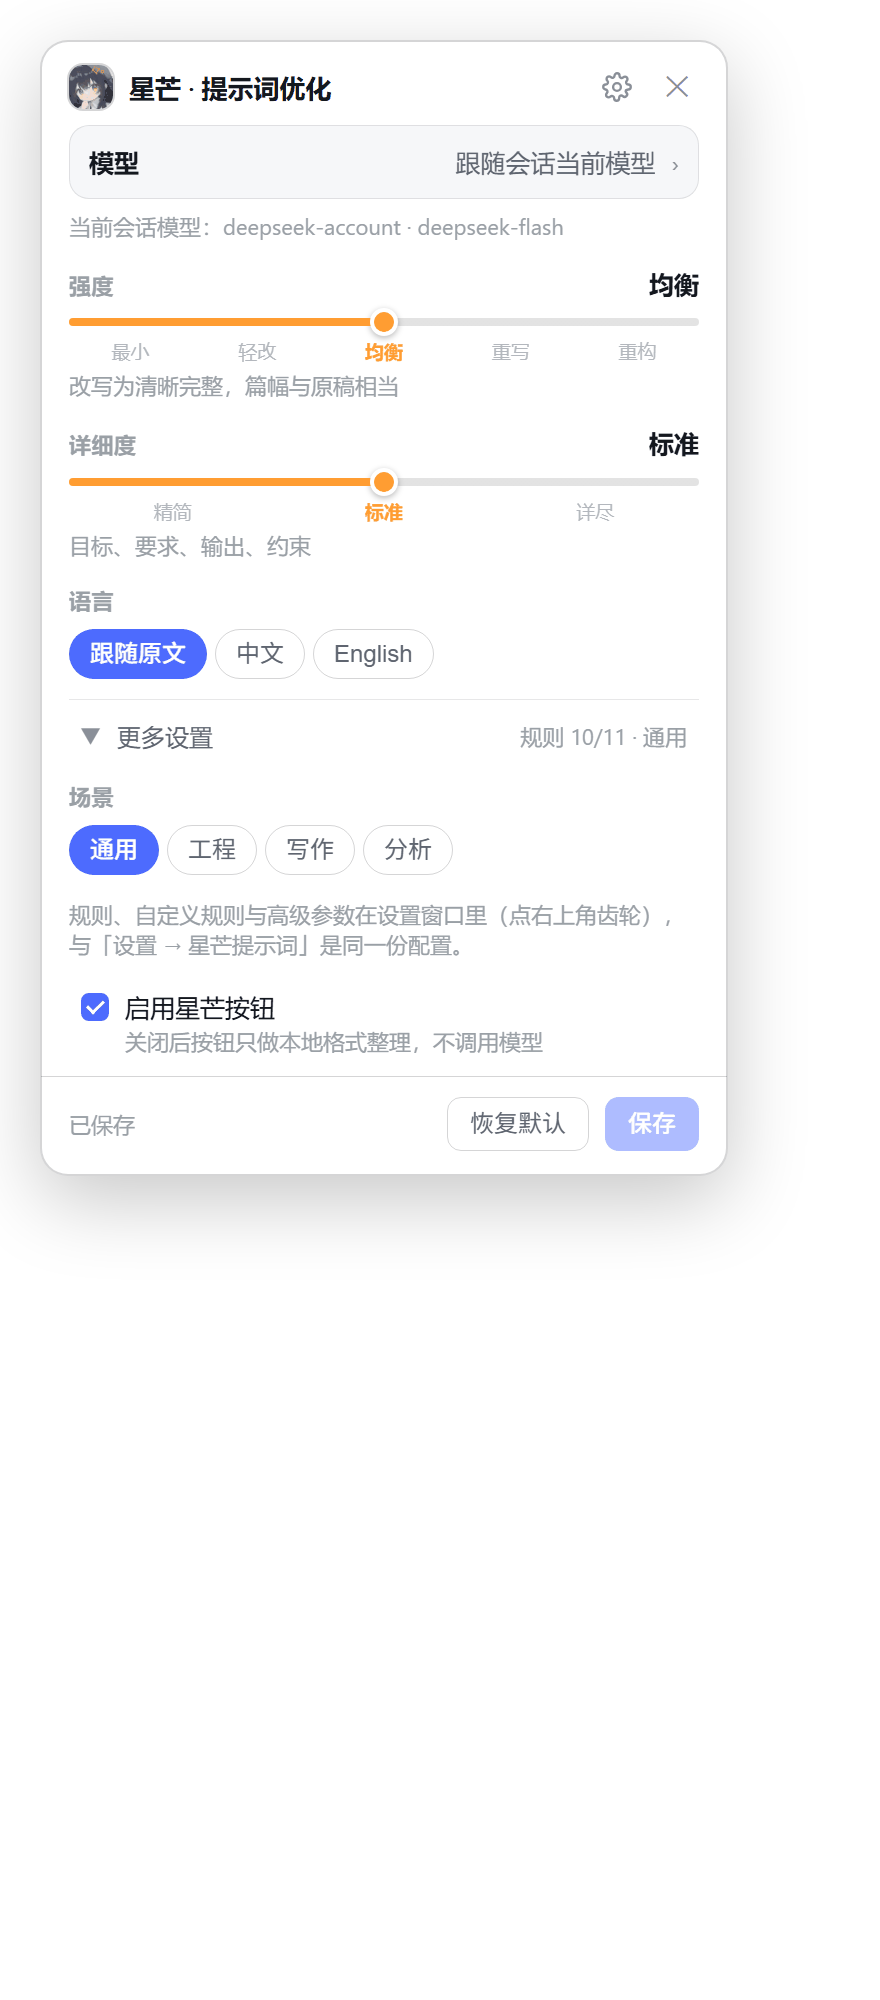
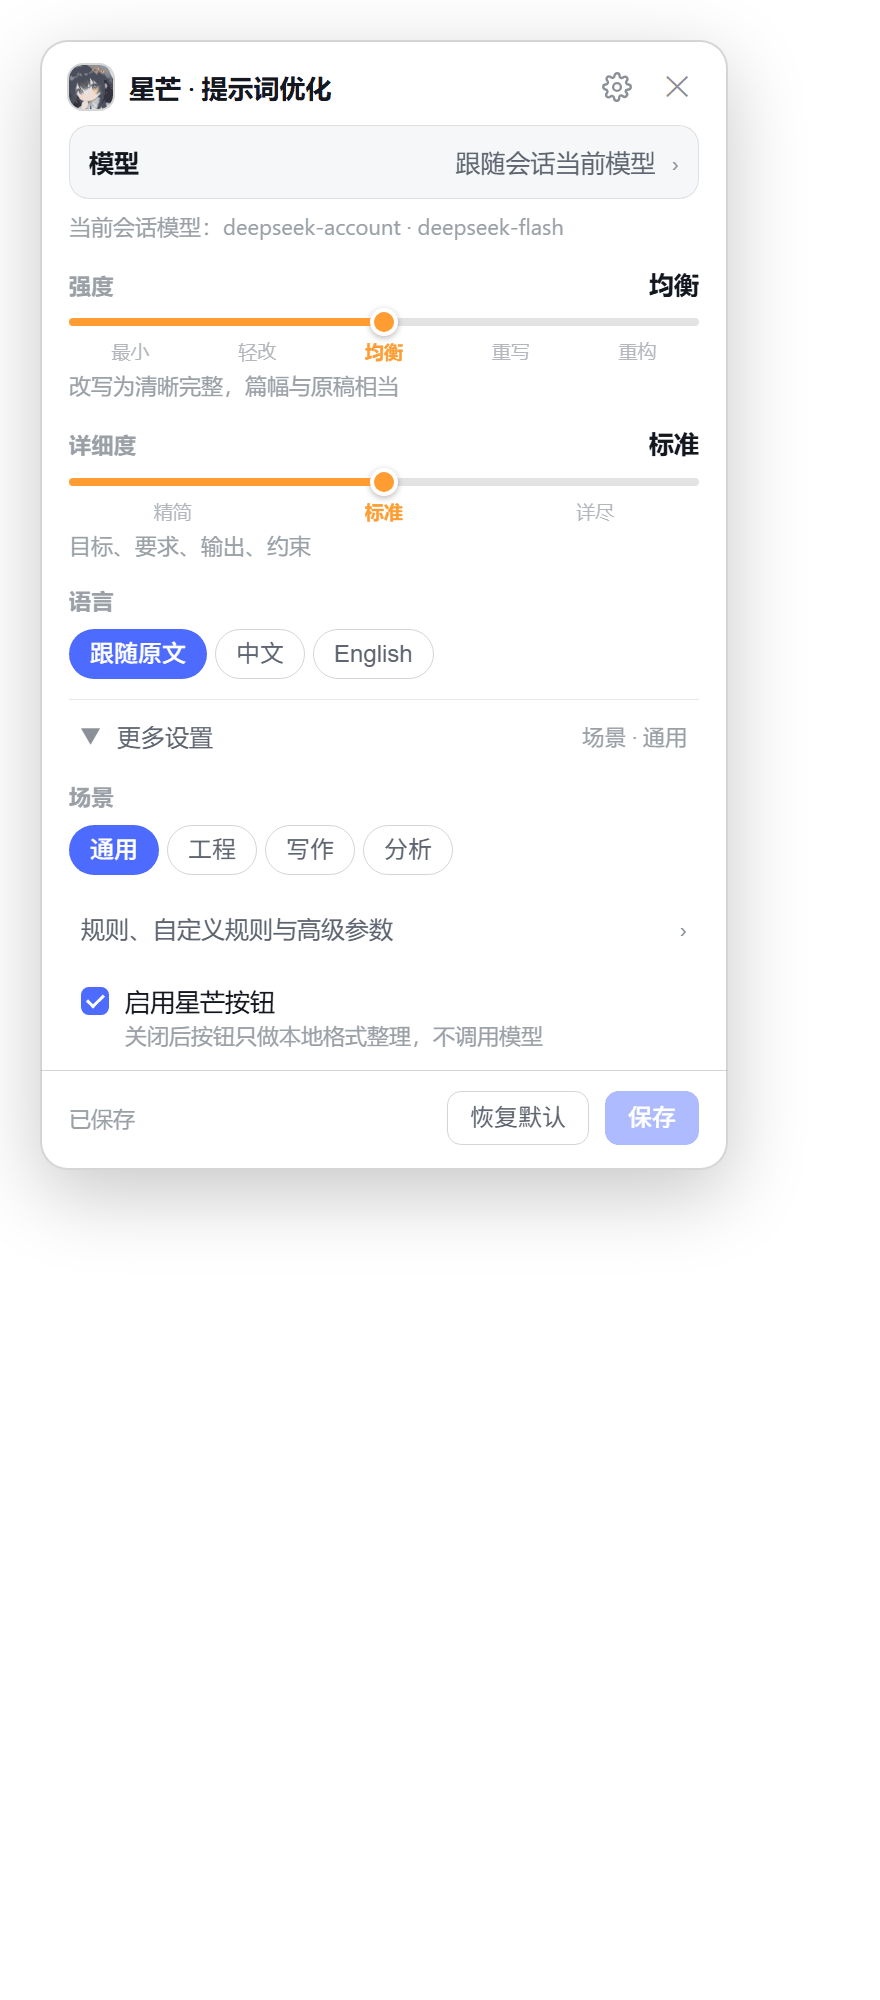
feat(ui): 浮层入口改成一行可点击，摘要改准
上一版瘦身后我自己留下两个问题：
1. 「更多设置」摘要仍写着「规则 11/11」，但规则已经不在这一块里，报数只会误导
   → 改成「场景 · 通用」，只报这里真能改的那一项
2. 为说明「规则在哪」加了三行文字，刚瘦身又塞回一段长文案
   → 改成一行可点击入口「规则、自定义规则与高级参数 ›」，点它直接打开设置窗口

测试 448 → 452 项：入口是一颗按钮、点它确实打开窗口、关窗后浮层仍在；
包断言同步改为「浮层不再渲染规则列表，改为一行入口」。

diff --git a/lib/client.js b/lib/client.js
@@ -298,6 +298,14 @@
         '.dshsl-option-main{flex:1;min-width:0;overflow:hidden;text-overflow:ellipsis;white-space:nowrap}',
         '.dshsl-option-sub{flex:none;max-width:45%;font-size:11px;color:var(--dsw-alias-label-caption,#9aa0a6);',
         'overflow:hidden;text-overflow:ellipsis;white-space:nowrap}',
+        '.dshsl-link-row{display:flex;align-items:center;gap:8px;width:100%;box-sizing:border-box;',
+        'border:none;background:transparent;cursor:pointer;font:inherit;font-size:12px;line-height:17px;',
+        'color:var(--dsw-alias-label-secondary,#5f6570);padding:6px 6px;border-radius:7px;text-align:left;margin:0 0 8px}',
+        '.dshsl-link-row:hover{background:var(--dsw-alias-interactive-bg-hover,rgba(127,127,127,.14));',
+        'color:var(--dsw-alias-label-primary,#111)}',
+        '.dshsl-link-row:focus-visible{outline:2px solid var(--dsw-alias-state-business-primary,#4d6bfe);outline-offset:-2px}',
+        '.dshsl-link-row-text{flex:1;min-width:0;overflow:hidden;text-overflow:ellipsis;white-space:nowrap}',
+        '.dshsl-link-row-go{flex:none;color:var(--dsw-alias-label-tertiary,#8a8f98)}',
         '.dshsl-option-reload{color:var(--dsw-alias-label-secondary,#5f6570);font-size:11.5px;padding-top:6px;padding-bottom:6px}',
         // 淡入 / 淡出：从按钮方向长出来，收回时缩回去
         '@keyframes dshsl-pop-in{from{opacity:0;transform:translateY(8px) scale(.965)}to{opacity:1;transform:none}}',
@@ -1832,13 +1840,9 @@
               More,
               {
                 title: t('更多设置', 'More'),
-                summary:
-                  t('规则 ', 'rules ') +
-                  (ruleCount - offCount) +
-                  '/' +
-                  ruleCount +
-                  ' · ' +
-                  lensLabel,
+                // 规则已经不在这里了，摘要就别再报规则数——
+                // 只报真正能在这个区块里改的那一项
+                summary: t('场景 · ', 'scenario · ') + lensLabel,
               },
               e(
                 'div',
@@ -1854,13 +1858,18 @@
                   },
                 }),
               ),
+              // 一行可点击入口，比三行说明更省地方，也更直接
               e(
-                'p',
-                { className: 'dshsl-models-note', style: { margin: '0 0 10px' } },
-                t(
-                  '规则、自定义规则与高级参数在设置窗口里（点右上角齿轮），与「设置 → 星芒提示词」是同一份配置。',
-                  'Rules, custom rules and advanced parameters live in the settings window (the gear above) — the same config as Settings → Starlight.',
-                ),
+                'button',
+                {
+                  type: 'button',
+                  className: 'dshsl-link-row',
+                  onClick: function () {
+                    setDialog(true)
+                  },
+                },
+                e('span', { className: 'dshsl-link-row-text' }, t('规则、自定义规则与高级参数', 'Rules, custom rules and advanced parameters')),
+                e('span', { className: 'dshsl-link-row-go', 'aria-hidden': 'true' }, '›'),
               ),
               e(EnabledToggle, { config: config, onPatch: rules.patch }),
             ),

diff --git a/CHANGELOG.md b/CHANGELOG.md
@@ -20,7 +20,7 @@ Chinese version: [CHANGELOG.zh-CN.md](CHANGELOG.zh-CN.md).
   - Still read-only: it installs nothing and writes no files; the footer just says the market is a read-only view.
   - Served through a host proxy, `GET /dsh-starlight/market`: it accepts only credential-free https URLs without query or fragment, refuses redirects, times out at 10s, caps at 2 MiB, checks the format and whitelists fields; the same index is cached for 60s.
 
-- **A slimmer popover**: rules, custom rules and advanced parameters now live only in the settings window (the gear); expanding the popover leaves the scenario switch and the master toggle, plus a line saying where the rest went. The same set used to appear three times — popover, settings window, settings page — and the popover copy only made the panel taller.
+- **A slimmer popover**: rules, custom rules and advanced parameters now live only in the settings window (the gear); expanding the popover leaves the scenario switch, one clickable row that opens the window, and the master toggle. The section summary reads "scenario · General" instead of a rule count — the rules are no longer in that block, so reporting a count only misleads. (the gear); expanding the popover leaves the scenario switch and the master toggle, plus a line saying where the rest went. The same set used to appear three times — popover, settings window, settings page — and the popover copy only made the panel taller.
 - **A Tab trap for the settings window**: inside the modal, Tab and Shift+Tab wrap at both ends instead of escaping to the page behind it; closing still returns focus to the gear.
 
 ### Fixed

diff --git a/CHANGELOG.zh-CN.md b/CHANGELOG.zh-CN.md
@@ -20,7 +20,7 @@
   - 仍然只读：不代装、不写盘，页脚只显示「插件市场为只读视图」。
   - 走宿主代理 `GET /dsh-starlight/market`：只接受不带查询与凭据的 https 地址、禁止跟随重定向、10s 超时、2 MiB 上限、format 检查与字段白名单；同一索引缓存 60s。
 
-- **浮层瘦身**：规则、自定义规则与高级参数只在设置窗口（齿轮）里；浮层展开后只剩「场景」与总开关，并指明它们在哪。同一套东西原来在浮层、设置窗口、设置页各出现一次，浮层这一份只会把面板撑长。
+- **浮层瘦身**：规则、自定义规则与高级参数只在设置窗口（齿轮）里；浮层展开后只剩「场景」、一行可点击入口（点它直接开设置窗口）与总开关。摘要也从「规则 11/11 · 通用」改成「场景 · 通用」——规则已经不在这块里，再报规则数只会误导。；浮层展开后只剩「场景」与总开关，并指明它们在哪。同一套东西原来在浮层、设置窗口、设置页各出现一次，浮层这一份只会把面板撑长。
 - **设置窗口补上 Tab 陷阱**：模态窗里 Tab / Shift+Tab 在首尾两端回卷，不再跑到背后的页面；关闭时焦点仍还给齿轮按钮。
 
 ### 修复
